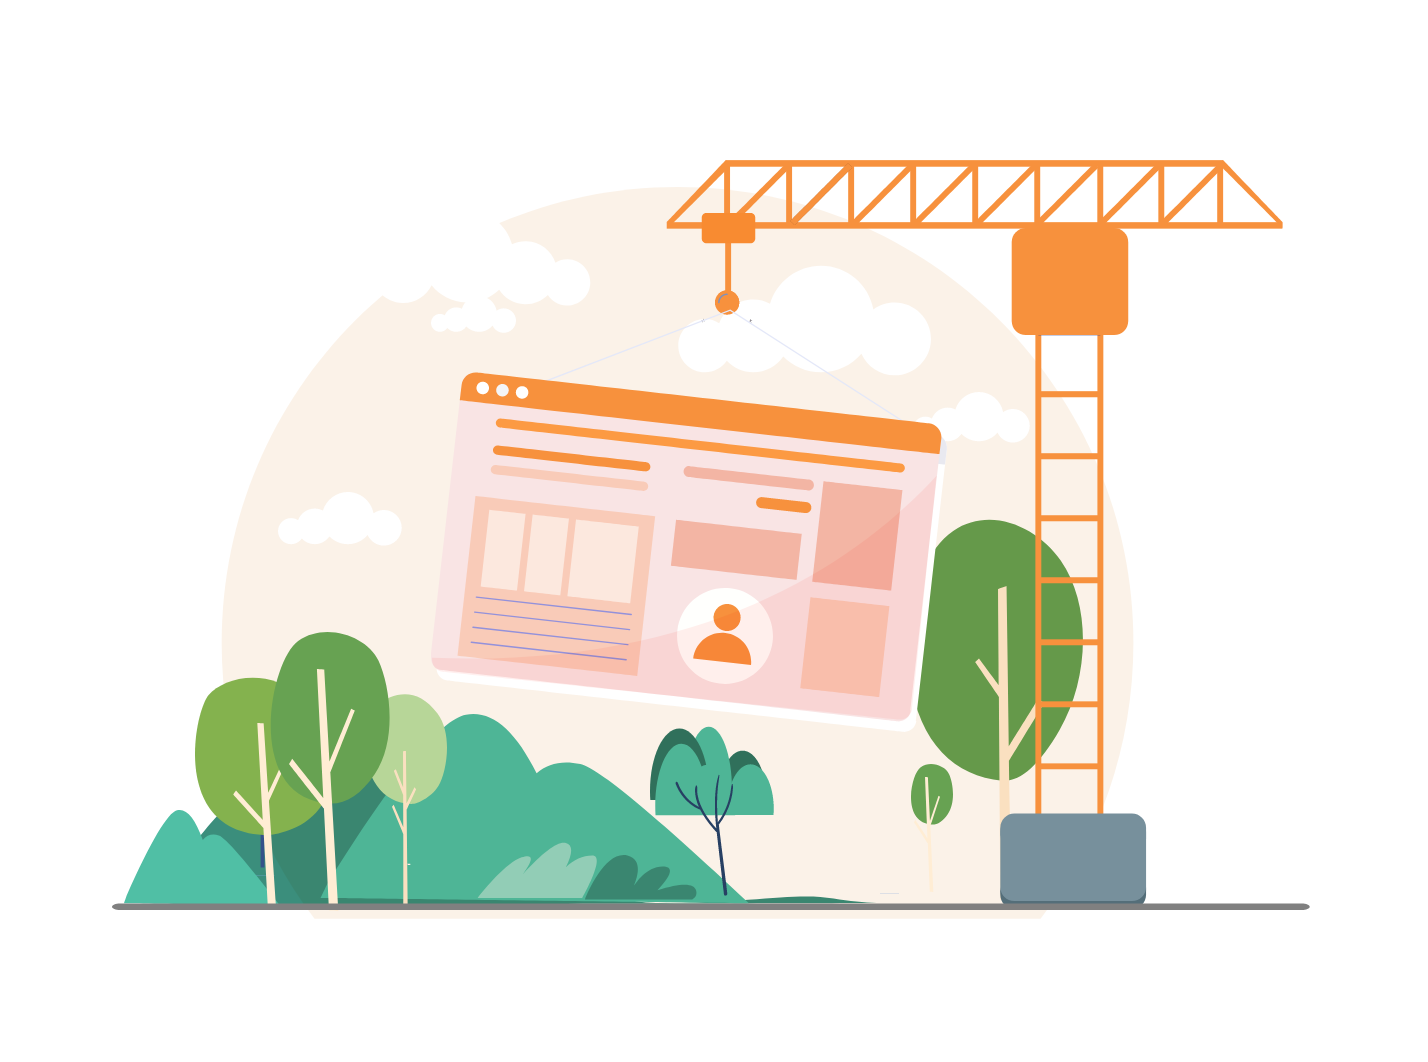
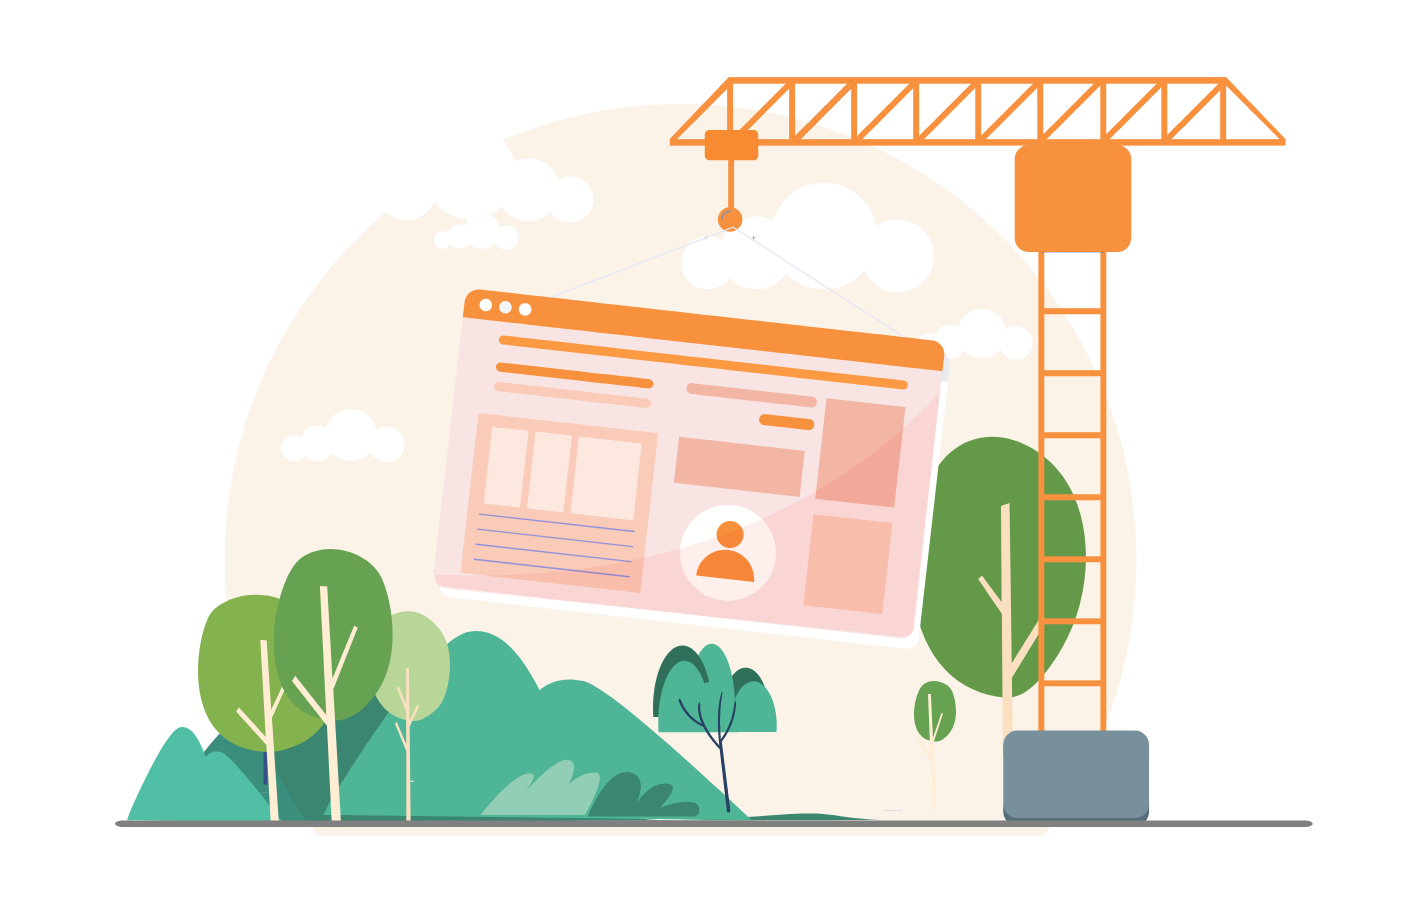
OHRM5X-912: Update content of module under development page (#1020)
* OHRM5X-912: Update content of module under development page

* OHRM5X-962: Report criterion option not selecting issue fix

Changed region(s): [[0.0616, 0.2456, 0.9244, 0.9211], [0.4622, 0.0614, 0.8936, 0.307]]

diff --git a/symfony/client/src/core/pages/ModuleUnderDevelopment.vue b/symfony/client/src/core/pages/ModuleUnderDevelopment.vue
@@ -30,8 +30,18 @@
           class="orangehrm-module-under-development-img"
           alt="this module is under development"
         />
-        <oxd-text tag="h5">
-          {{ $t('general.module_under_development') }}
+        <oxd-text tag="p" class="orangehrm-module-under-development-text">
+          This page is being developed for the OrangeHRM OS 5.0 Beta version.
+          However, you may try out all of the features by installing OrangeHRM
+          OS 4.9.
+          <a
+            target="_blank"
+            class="orangehrm-module-under-development-link"
+            href="https://sourceforge.net/projects/orangehrm/files/stable/4.9/"
+          >
+            Click here
+          </a>
+          to download OrangeHRM OS 4.9.
         </oxd-text>
       </div>
     </div>
@@ -54,7 +64,7 @@ export default {
   &-img {
     max-width: 100%;
     height: 100%;
-    max-height: 400px;
+    max-height: 350px;
     display: block;
     margin: 0 auto;
     object-fit: fill;
@@ -62,6 +72,16 @@ export default {
   &-heading {
     color: $oxd-primary-one-color;
     font-weight: 700;
+  }
+  &-text {
+    font-size: 14px;
+    max-width: 800px;
+    margin: 0 auto;
+    margin-bottom: 2rem;
+  }
+  &-link {
+    text-decoration: none;
+    color: $oxd-primary-one-color;
   }
 }
 </style>

diff --git a/symfony/client/src/orangehrmPimPlugin/components/ReportCriterionSelect.vue b/symfony/client/src/orangehrmPimPlugin/components/ReportCriterionSelect.vue
@@ -48,11 +48,6 @@ export default {
       type: Array,
       default: () => [],
     },
-    operator: {
-      type: Object,
-      required: false,
-      default: () => ({id: 'eq', label: 'Equal'}),
-    },
     valueX: {
       type: Object,
       required: false,
@@ -76,7 +71,15 @@ export default {
         });
       });
     }
-    context.emit('update:operator', props.operator);
+
+    if (
+      props.api === 'api/v2/admin/locations' ||
+      props.api === 'api/v2/admin/subunits'
+    ) {
+      context.emit('update:operator', {id: 'in', label: 'Equal'});
+    } else {
+      context.emit('update:operator', {id: 'eq', label: 'Equal'});
+    }
 
     return {
       opts,

diff --git a/symfony/client/src/orangehrmPimPlugin/components/ReportCriterion.vue b/symfony/client/src/orangehrmPimPlugin/components/ReportCriterion.vue
@@ -31,7 +31,6 @@
     :api="field.api"
     :label="field.name"
     :options="field.options"
-    :operator="field.operator"
   ></component>
 </template>
 
@@ -163,7 +162,6 @@ export default {
           component: 'report-criterion-select',
           api: 'api/v2/admin/subunits',
           options: [],
-          operator: {id: 'in', label: 'Equal'},
         };
         break;
 
@@ -173,7 +171,6 @@ export default {
           component: 'report-criterion-select',
           api: 'api/v2/admin/locations',
           options: [],
-          operator: {id: 'in', label: 'Equal'},
         };
         break;
 
